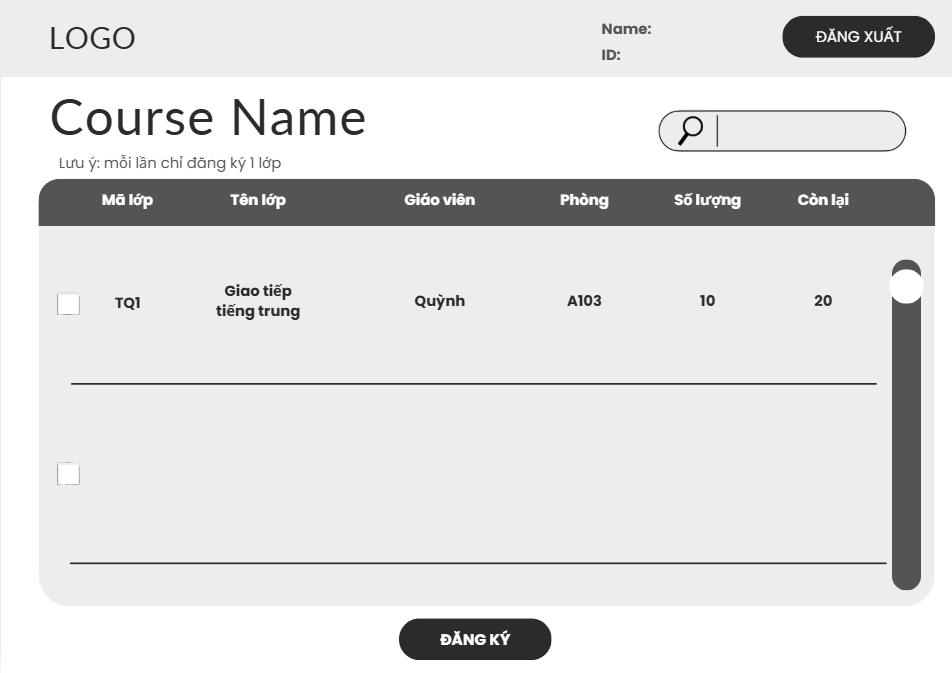
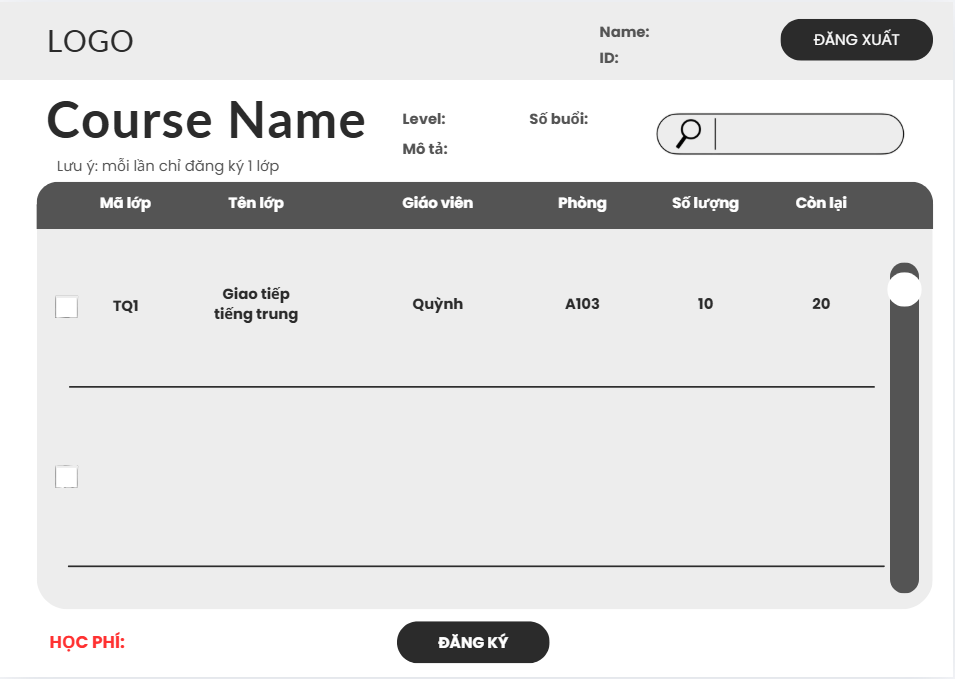
update docs/requirements.md: add UI bao cao, cau hinh, xem lich day; fix UI: dang ky khoa hoc, erd

diff --git a/docs/requirements.md b/docs/requirements.md
@@ -605,8 +605,6 @@ BR-30: Hệ thống cung cấp báo cáo thống kê quý, năm theo:
 | Alternative Flow | 2a. Nếu hệ thống không lấy được dữ liệu hóa đơn, hệ thống hiển thị thông báo: "Không thể tải thông tin thanh toán lúc này, vui lòng thử lại sau". Hệ thống giữ nguyên ở trang hiện tại hoặc quay về trang đăng ký. <br><br>5a. Nếu học viên không thanh toán mà bấm nút "Hủy" hoặc "Quay lại" trên cổng thanh toán. Cổng thanh toán trả kết quả "Đã hủy" về hệ thống. Hệ thống hiển thị thông báo: "Giao dịch đã bị hủy", sau đó quay lại màn hình chọn phương thức thanh toán.<br><br> 6a. Nếu số dư không đủ hoặc thẻ bị lỗi, cổng thanh toán trả về kết quả thất bại. Hệ thống hiển thị thông báo: "Thanh toán thất bại. Vui lòng kiểm tra lại số dư hoặc thử phương thức thanh toán khác". Hệ thống quay lại màn hình chọn phương thức thanh toán. |
 | Exception Flow | 6b. Trong quá trình chờ đợi kết quả, nếu xảy ra sự cố mạng, cổng thanh toán không phản hồi hoặc hết thời gian giao dịch mà chưa xác nhận được trạng thái thanh toán. Hệ thống hiển thị thông báo lỗi: "Giao dịch quá thời gian xử lý hoặc mất kết nối. Vui lòng kiểm tra lại lịch sử giao dịch trước khi thực hiện lại". Hệ thống quay về màn hình chọn chức năng thanh toán.                                                                                                                                                                                                                                                                                                                                                                          |
 
-## 8.3. ERD Diagram
-![erd-diagram](screenshots/erd.png)
 ---
 
 # 9. Wireframes UI
@@ -621,7 +619,19 @@ BR-30: Hệ thống cung cấp báo cáo thống kê quý, năm theo:
 ![UI-dang-ky-khoa-hoc](screenshots/dang-ky-khoa-hoc-1.png)
 ![UI-dang-ky-khoa-hoc](screenshots/dang-ky-khoa-hoc-2.png)
 ![UI-dang-ky-khoa-hoc](screenshots/dang-ky-khoa-hoc-3.png)
+![UI-dang-ky-khoa-hoc](screenshots/dang-ky-khoa-hoc-4.png)
 
 ## 9.3 UI Xem Lịch Học - Thời Khóa Biểu
 ![UI-xem-lich-hoc-thoi-khoa-bieu](screenshots/xem-khoa-hoc-va-thoi-khoa-bieu.png)
+
+## 9.4 UI Báo Cáo
+![UI-bao-cao](screenshots/bao-cao.png)
+
+## 9.5 UI Xem Lịch Dạy
+![UI-xem-lich-day](screenshots/xem-lich-day.png)
+
+## 9.6 UI Quản Lý Cấu Hình
+![UI-quan-ly-cau-hinh](screenshots/cau-hinh.png)
+
+
 

diff --git a/docs/database-design.md b/docs/database-design.md
@@ -20,6 +20,7 @@ Liệt kê các thực thể chính trong hệ thống.
 
 ### 2.2 ER Diagram  
 Chèn hình ERD và ghi chú ngắn giải thích tổng quan quan hệ giữa các thực thể.
+![erd-diagram](screenshots/erd.png)
 
 ---
 
